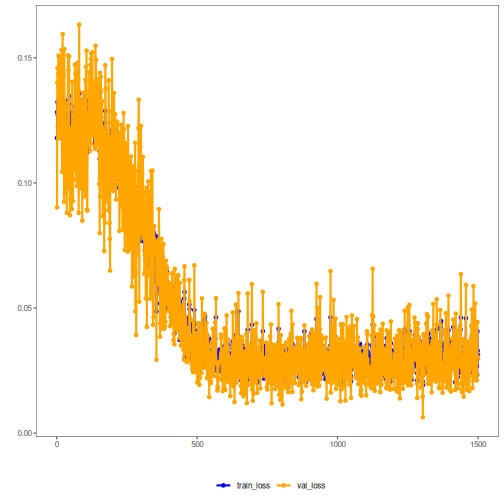
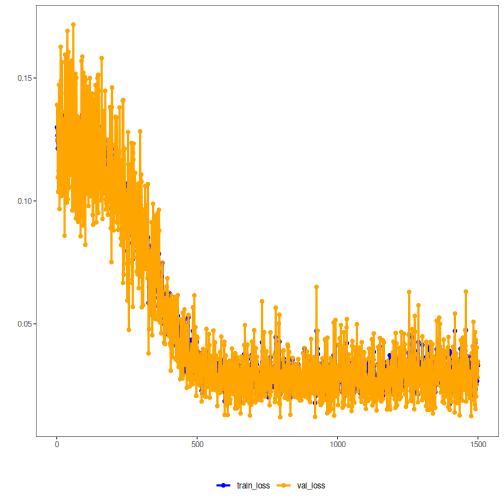
update

diff --git a/autoencoder/autoenc_lstm_ed.md b/autoencoder/autoenc_lstm_ed.md
@@ -1,8 +1,8 @@
-## Vanilla autoencoder transformation (encode)
+## LSTM Autoencoder transformation (encode-decode)
 
 Considering a dataset with $p$ numerical attributes. 
 
-The goal of the autoencoder is to reduce the dimension of $p$ to $k$, such that these $k$ attributes are enough to recompose the original $p$ attributes. 
+The goal of the autoencoder is to reduce the dimension of $p$ to $k$, such that these $k$ attributes are enough to recompose the original $p$ attributes. However from the $k$ dimensionals the data is returned back to $p$ dimensions. The higher the quality of autoencoder the similiar is the output from the input. 
 
 
 ```r
@@ -73,9 +73,13 @@ Reduce from 5 to 3 dimensions
 
 
 ```r
-auto <- autoenc_e(5, 3)
+auto <- autoenc_lstm_ed(5, 3, num_epochs=1500)
 
 auto <- fit(auto, train)
+```
+
+```
+## Error in eval(ei, envir): Unable to open file ''
 ```
 
 ### learning curves
@@ -83,12 +87,27 @@ auto <- fit(auto, train)
 
 ```r
 fit_loss <- data.frame(x=1:length(auto$train_loss), train_loss=auto$train_loss,val_loss=auto$val_loss)
+```
 
+```
+## Error in data.frame(x = 1:length(auto$train_loss), train_loss = auto$train_loss, : arguments imply differing number of rows: 2, 0
+```
+
+```r
 grf <- plot_series(fit_loss, colors=c('Blue','Orange'))
+```
+
+```
+## Error in eval(expr, envir, enclos): object 'fit_loss' not found
+```
+
+```r
 plot(grf)
 ```
 
-![plot of chunk unnamed-chunk-6](fig/autoenc_e/unnamed-chunk-6-1.png)
+```
+## Error in eval(expr, envir, enclos): object 'grf' not found
+```
 
 ### testing autoencoder
 presenting the original test set and display encoding
@@ -110,16 +129,66 @@ print(head(test))
 
 ```r
 result <- transform(auto, test)
+```
+
+```
+## Error in eval(ei, envir): Unable to open file ''
+```
+
+```r
 print(head(result))
 ```
 
 ```
-##           [,1]       [,2]      [,3]
-## [1,] 1.0645484 -0.6772732 0.6271166
-## [2,] 1.0810437 -0.8094092 0.6249610
-## [3,] 1.0637506 -0.9143854 0.6025229
-## [4,] 1.0186976 -0.9869197 0.5620340
-## [5,] 0.9491944 -1.0220580 0.5065160
-## [6,] 0.8554145 -1.0193181 0.4396216
+## Error in eval(expr, envir, enclos): object 'result' not found
+```
+
+
+```r
+result <- as.data.frame(result)
+```
+
+```
+## Error in eval(expr, envir, enclos): object 'result' not found
+```
+
+```r
+names(result) <- names(test)
+```
+
+```
+## Error in eval(ei, envir): object 'result' not found
+```
+
+```r
+r2 <- c()
+mape <- c()
+for (col in names(test)){
+r2_col <- cor(test[col], result[col])^2
+r2 <- append(r2, r2_col)
+mape_col <- mean((abs((result[col] - test[col]))/test[col])[[col]])
+mape <- append(mape, mape_col)
+print(paste(col, 'R2 test:', r2_col, 'MAPE:', mape_col))
+}
+```
+
+```
+## Error in eval(expr, envir, enclos): object 'result' not found
+```
+
+```r
+print(paste('Means R2 test:', mean(r2), 'MAPE:', mean(mape)))
+```
+
+```
+## Warning in mean.default(r2): argument is not numeric or logical: returning NA
+```
+
+```
+## Warning in mean.default(mape): argument is not numeric or logical: returning NA
+```
+
+```
+## [1] "Means R2 test: NA MAPE: NA"
 ```
 

diff --git a/autoencoder/autoenc_ed.md b/autoencoder/autoenc_ed.md
@@ -117,12 +117,12 @@ print(head(result))
 
 ```
 ##           [,1]      [,2]      [,3]      [,4]      [,5]
-## [1,] 0.7258759 0.8289098 0.9091874 0.9682669 0.9988003
-## [2,] 0.8292154 0.9133191 0.9687206 0.9954263 0.9941831
-## [3,] 0.9121605 0.9715182 0.9990646 0.9933908 0.9608940
-## [4,] 0.9700467 0.9996312 0.9974335 0.9624362 0.9004632
-## [5,] 0.9994037 0.9962510 0.9644254 0.9034883 0.8156596
-## [6,] 0.9985551 0.9615335 0.9010950 0.8149808 0.7054794
+## [1,] 0.7253111 0.8311076 0.9128371 0.9685713 0.9971763
+## [2,] 0.8294701 0.9131187 0.9707714 0.9964520 0.9961414
+## [3,] 0.9137749 0.9685208 0.9979166 0.9954138 0.9660439
+## [4,] 0.9757503 1.0014532 0.9967098 0.9605950 0.8953984
+## [5,] 0.9990868 0.9952053 0.9623622 0.9012162 0.8128318
+## [6,] 0.9933682 0.9584144 0.8985131 0.8180462 0.7114025
 ```
 
 
@@ -141,11 +141,11 @@ print(paste(col, 'R2 test:', r2_col, 'MAPE:', mape_col))
 ```
 
 ```
-## [1] "t4 R2 test: 0.999796413907148 MAPE: 0.00143159638262522"
-## [1] "t3 R2 test: 0.999915502089835 MAPE: 0.00124063667770235"
-## [1] "t2 R2 test: 0.999935597568892 MAPE: 0.00149851187372258"
-## [1] "t1 R2 test: 0.999907121309847 MAPE: 0.00313239542742169"
-## [1] "t0 R2 test: 0.999919608044822 MAPE: 0.00494532773812235"
+## [1] "t4 R2 test: 0.999349149021247 MAPE: 0.00215520999714953"
+## [1] "t3 R2 test: 0.999667167737581 MAPE: 0.00302223762671449"
+## [1] "t2 R2 test: 0.999971036153583 MAPE: 0.00116370222561889"
+## [1] "t1 R2 test: 0.999827447183477 MAPE: 0.00351220030300674"
+## [1] "t0 R2 test: 0.999791518887907 MAPE: 0.00511726002140654"
 ```
 
 ```r
@@ -153,5 +153,5 @@ print(paste('Means R2 test:', mean(r2), 'MAPE:', mean(mape)))
 ```
 
 ```
-## [1] "Means R2 test: 0.999894848584109 MAPE: 0.00244969361991884"
+## [1] "Means R2 test: 0.999721263796759 MAPE: 0.00299412203477924"
 ```

diff --git a/autoencoder/autoenc_conv_ed.md b/autoencoder/autoenc_conv_ed.md
@@ -115,12 +115,12 @@ print(head(result))
 
 ```
 ##           [,1]      [,2]      [,3]      [,4]      [,5]
-## [1,] 0.7543595 0.8533767 0.9157133 0.9494087 0.9521751
-## [2,] 0.8542452 0.9139277 0.9440469 0.9611281 0.9532425
-## [3,] 0.9140056 0.9414074 0.9530023 0.9600864 0.9404840
-## [4,] 0.9451379 0.9523547 0.9502978 0.9461585 0.9081473
-## [5,] 0.9582302 0.9509521 0.9331571 0.9079400 0.8410604
-## [6,] 0.9604851 0.9375315 0.8918638 0.8244298 0.7195247
+## [1,] 0.7366565 0.8509512 0.9187556 0.9515742 0.9561780
+## [2,] 0.8411530 0.9129465 0.9472737 0.9648011 0.9578697
+## [3,] 0.9061443 0.9404545 0.9552004 0.9633086 0.9447076
+## [4,] 0.9404188 0.9518111 0.9524679 0.9503982 0.9132799
+## [5,] 0.9552626 0.9506059 0.9355718 0.9142677 0.8474790
+## [6,] 0.9592860 0.9370835 0.8952979 0.8301909 0.7273713
 ```
 
 
@@ -139,11 +139,11 @@ print(paste(col, 'R2 test:', r2_col, 'MAPE:', mape_col))
 ```
 
 ```
-## [1] "t4 R2 test: 0.975072821390131 MAPE: 0.0233094088728486"
-## [1] "t3 R2 test: 0.969715460670968 MAPE: 0.024224531337727"
-## [1] "t2 R2 test: 0.991253899479892 MAPE: 0.0199885559449018"
-## [1] "t1 R2 test: 0.996205516375067 MAPE: 0.0164337197403308"
-## [1] "t0 R2 test: 0.993131373177035 MAPE: 0.0299455847503488"
+## [1] "t4 R2 test: 0.981576721175932 MAPE: 0.0195534035332816"
+## [1] "t3 R2 test: 0.971805660311555 MAPE: 0.0231432513387048"
+## [1] "t2 R2 test: 0.991384197696138 MAPE: 0.0185704498617438"
+## [1] "t1 R2 test: 0.995529263376774 MAPE: 0.0169648329055368"
+## [1] "t0 R2 test: 0.992701858880514 MAPE: 0.025824160758745"
 ```
 
 ```r
@@ -151,6 +151,6 @@ print(paste('Means R2 test:', mean(r2), 'MAPE:', mean(mape)))
 ```
 
 ```
-## [1] "Means R2 test: 0.985075814218619 MAPE: 0.0227803601292314"
+## [1] "Means R2 test: 0.986599540288182 MAPE: 0.0208112196796024"
 ```
 

diff --git a/autoencoder/autoenc_adv_ed.md b/autoencoder/autoenc_adv_ed.md
@@ -115,12 +115,12 @@ print(head(result))
 
 ```
 ##           [,1]      [,2]      [,3]      [,4]      [,5]
-## [1,] 0.8561733 0.9112515 0.9312388 0.9302691 0.8937083
-## [2,] 0.8830889 0.9340199 0.9509791 0.9508393 0.9178296
-## [3,] 0.8943482 0.9429024 0.9583802 0.9584929 0.9275014
-## [4,] 0.8924958 0.9414978 0.9571538 0.9572266 0.9258965
-## [5,] 0.8760727 0.9283638 0.9459464 0.9456000 0.9115530
-## [6,] 0.8424517 0.8989494 0.9197633 0.9181756 0.8806838
+## [1,] 0.8629210 0.9132285 0.9326210 0.9303212 0.8901127
+## [2,] 0.8896853 0.9359767 0.9522150 0.9509270 0.9147332
+## [3,] 0.9007372 0.9447655 0.9596373 0.9585466 0.9247000
+## [4,] 0.8988950 0.9433496 0.9583910 0.9572776 0.9230246
+## [5,] 0.8828143 0.9303872 0.9473248 0.9457842 0.9084207
+## [6,] 0.8498890 0.9014834 0.9218717 0.9189240 0.8777144
 ```
 
 
@@ -139,11 +139,11 @@ print(paste(col, 'R2 test:', r2_col, 'MAPE:', mape_col))
 ```
 
 ```
-## [1] "t4 R2 test: 0.330536330661891 MAPE: 0.166861593129712"
-## [1] "t3 R2 test: 0.88791464411739 MAPE: 0.088164691429298"
-## [1] "t2 R2 test: 0.957136796918129 MAPE: 0.0449160616849929"
-## [1] "t1 R2 test: 0.906100246815343 MAPE: 0.137570082082875"
-## [1] "t0 R2 test: 0.847078473797201 MAPE: 0.328396219847039"
+## [1] "t4 R2 test: 0.33303052784149 MAPE: 0.164858236012601"
+## [1] "t3 R2 test: 0.888286952383444 MAPE: 0.0891874735274942"
+## [1] "t2 R2 test: 0.95555650613642 MAPE: 0.0455747731561991"
+## [1] "t1 R2 test: 0.904672725514523 MAPE: 0.137268578679093"
+## [1] "t0 R2 test: 0.846004835004456 MAPE: 0.323622521990572"
 ```
 
 ```r
@@ -151,6 +151,6 @@ print(paste('Means R2 test:', mean(r2), 'MAPE:', mean(mape)))
 ```
 
 ```
-## [1] "Means R2 test: 0.785753298461991 MAPE: 0.153181729634783"
+## [1] "Means R2 test: 0.785510309376066 MAPE: 0.152102316673192"
 ```
 

diff --git a/autoencoder/autoenc_lstm_e.md b/autoencoder/autoenc_lstm_e.md
@@ -1,4 +1,4 @@
-## Vanilla autoencoder transformation (encode)
+## LSTM Autoencoder transformation (encode)
 
 Considering a dataset with $p$ numerical attributes. 
 
@@ -73,9 +73,13 @@ Reduce from 5 to 3 dimensions
 
 
 ```r
-auto <- autoenc_e(5, 3)
+auto <- autoenc_lstm_e(5, 3, num_epochs=1500)
 
 auto <- fit(auto, train)
+```
+
+```
+## Error in eval(ei, envir): Unable to open file ''
 ```
 
 ### learning curves
@@ -83,12 +87,27 @@ auto <- fit(auto, train)
 
 ```r
 fit_loss <- data.frame(x=1:length(auto$train_loss), train_loss=auto$train_loss,val_loss=auto$val_loss)
+```
 
+```
+## Error in data.frame(x = 1:length(auto$train_loss), train_loss = auto$train_loss, : arguments imply differing number of rows: 2, 0
+```
+
+```r
 grf <- plot_series(fit_loss, colors=c('Blue','Orange'))
+```
+
+```
+## Error in eval(expr, envir, enclos): object 'fit_loss' not found
+```
+
+```r
 plot(grf)
 ```
 
-![plot of chunk unnamed-chunk-6](fig/autoenc_e/unnamed-chunk-6-1.png)
+```
+## Error in eval(expr, envir, enclos): object 'grf' not found
+```
 
 ### testing autoencoder
 presenting the original test set and display encoding
@@ -110,16 +129,17 @@ print(head(test))
 
 ```r
 result <- transform(auto, test)
+```
+
+```
+## Error in eval(ei, envir): Unable to open file ''
+```
+
+```r
 print(head(result))
 ```
 
 ```
-##           [,1]       [,2]      [,3]
-## [1,] 1.0645484 -0.6772732 0.6271166
-## [2,] 1.0810437 -0.8094092 0.6249610
-## [3,] 1.0637506 -0.9143854 0.6025229
-## [4,] 1.0186976 -0.9869197 0.5620340
-## [5,] 0.9491944 -1.0220580 0.5065160
-## [6,] 0.8554145 -1.0193181 0.4396216
+## Error in eval(expr, envir, enclos): object 'result' not found
 ```
 

diff --git a/autoencoder/autoenc_adv_e.md b/autoencoder/autoenc_adv_e.md
@@ -114,12 +114,12 @@ print(head(result))
 ```
 
 ```
-##          [,1]      [,2]        [,3]
-## [1,] 1.958294 -2.735529  0.24877989
-## [2,] 3.890897 -3.417253 -0.08368618
-## [3,] 4.458049 -5.814921  1.38711405
-## [4,] 2.560886 -2.243051 -0.10907773
-## [5,] 1.771213 -3.012017 -0.55467528
-## [6,] 2.887541 -3.177483  0.58945334
+##          [,1]      [,2]       [,3]
+## [1,] 2.089159 -2.663560  0.2374418
+## [2,] 4.116066 -3.255064 -0.1208599
+## [3,] 4.636033 -5.460536  1.3160473
+## [4,] 2.616209 -2.107830 -0.1091711
+## [5,] 1.949826 -2.861830 -0.6074489
+## [6,] 3.038910 -3.188900  0.5521972
 ```
 

diff --git a/autoencoder/autoenc_conv_e.md b/autoencoder/autoenc_conv_e.md
@@ -114,12 +114,12 @@ print(head(result))
 ```
 
 ```
-##             [,1]      [,2]     [,3]
-## [1,] -1.25359225 -1.004184 1.206174
-## [2,] -1.04652810 -1.169440 1.367965
-## [3,] -0.82799131 -1.281752 1.460558
-## [4,] -0.56543320 -1.328413 1.417652
-## [5,] -0.30818224 -1.308785 1.282385
-## [6,] -0.09265447 -1.207551 1.049941
+##            [,1]      [,2]     [,3]
+## [1,] -1.3341289 -0.979858 1.223084
+## [2,] -1.1254915 -1.163641 1.399164
+## [3,] -0.9056254 -1.292581 1.503247
+## [4,] -0.6354694 -1.360340 1.466032
+## [5,] -0.3753763 -1.358965 1.339924
+## [6,] -0.1563068 -1.271256 1.114053
 ```
 
